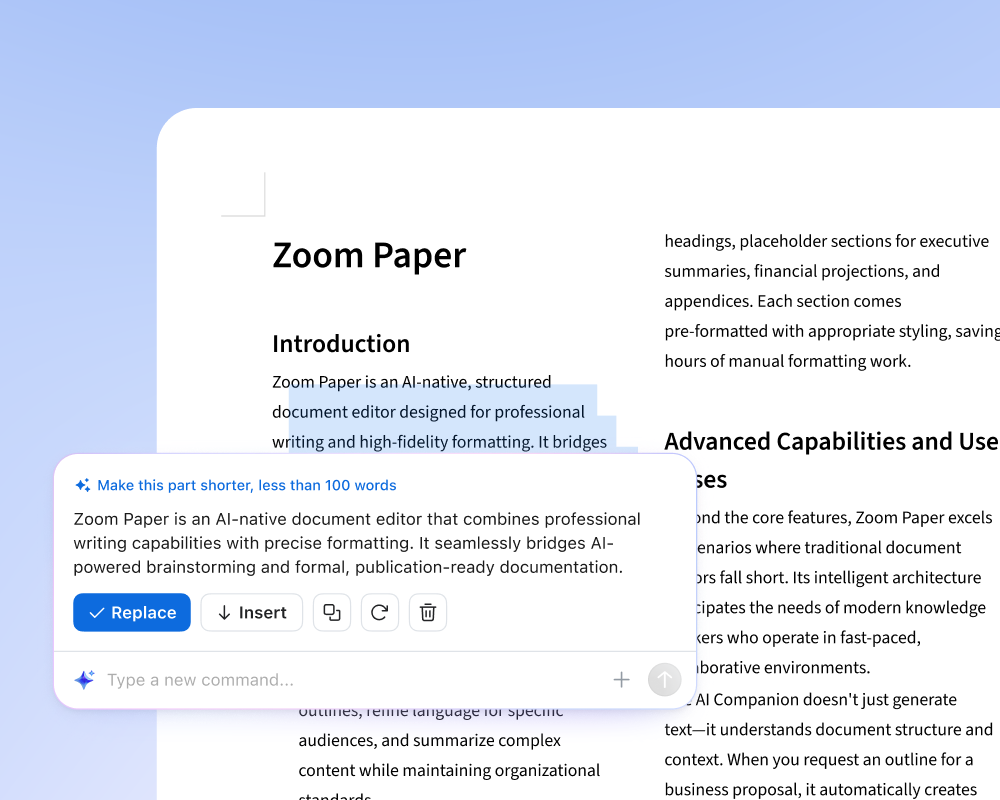
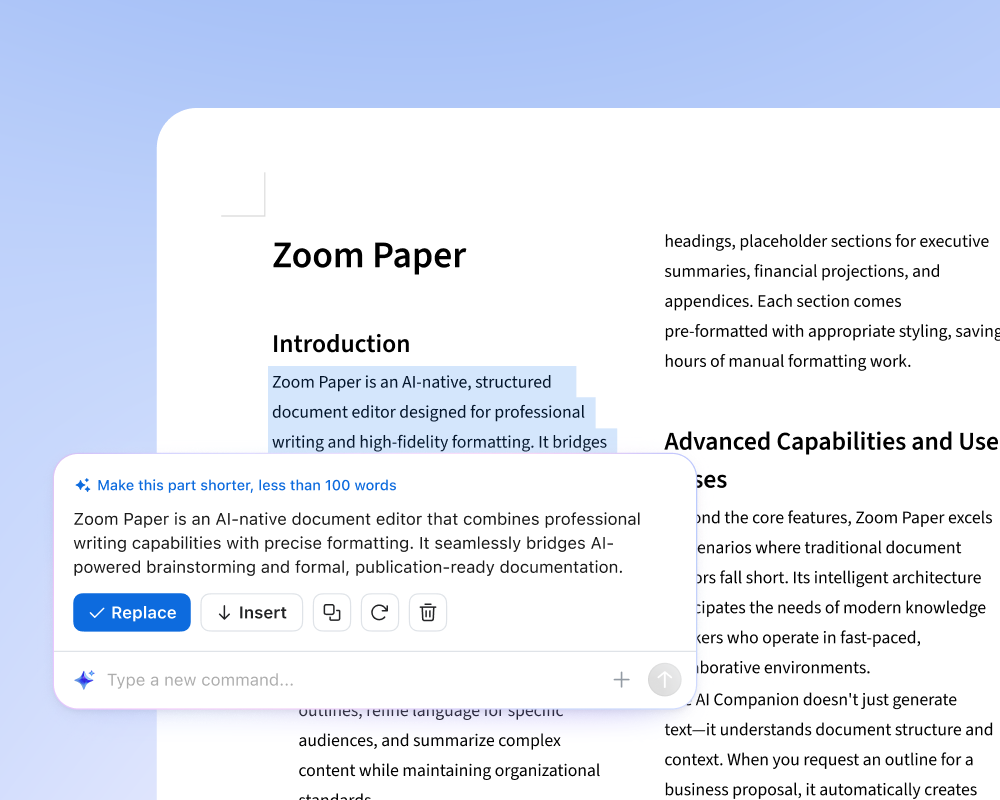
updated paper assets, updated hub color

Changed region(s): [[0.248, 0.4375, 0.62, 0.5625]]

diff --git a/src/components/Nav.module.css b/src/components/Nav.module.css
@@ -193,7 +193,7 @@
 .productCardSheets      { background: rgba(35, 165, 45, 0.06); }
 .productCardDatatable   { background: rgba(36, 127, 64, 0.06); }
 .productCardClassicdocs { background: rgba(32, 87, 177, 0.06); }
-.productCardHub         { background: #f1f4f6; }
+.productCardHub         { background: rgba(12, 92, 255, 0.06); }
 
 .productIcon {
   width: 62px;
@@ -210,7 +210,7 @@
 .productCardSheets      .productIcon { background: rgba(35, 165, 45, 0.06); }
 .productCardDatatable   .productIcon { background: rgba(36, 127, 64, 0.06); }
 .productCardClassicdocs .productIcon { background: rgba(32, 87, 177, 0.06); }
-.productCardHub         .productIcon { background: #dfe3e8; }
+.productCardHub         .productIcon { background: rgba(12, 92, 255, 0.06); }
 
 .productText {
   display: flex;

diff --git a/src/sections/productSuite/PaperMockup.tsx b/src/sections/productSuite/PaperMockup.tsx
@@ -315,7 +315,7 @@ export function PaperMockup({ active }: { active: boolean }) {
           <div className="ppm-panel">
             <div className="ppm-panel-head ppm-reveal" style={rd(40)}>
               <span className="ppm-ic ppm-panel-edit"><Ico n="edit" /></span>
-              <span className="ppm-panel-title">AI Companion</span>
+              <span className="ppm-panel-title">Ask AI</span>
               <span className="ppm-ic ppm-panel-close"><Ico n="close" /></span>
             </div>
 

diff --git a/src/sectionVariants.tsx b/src/sectionVariants.tsx
@@ -39,7 +39,7 @@ export const SECTION_VARIANT_GROUPS: SectionVariantGroup[] = [
   {
     id: 'hero',
     label: 'Hero',
-    defaultId: 'b',
+    defaultId: 'a',
     appliesTo: ['v5'],
     variants: [
       { id: 'a', label: 'Flat', render: () => <HeroV5 /> },
